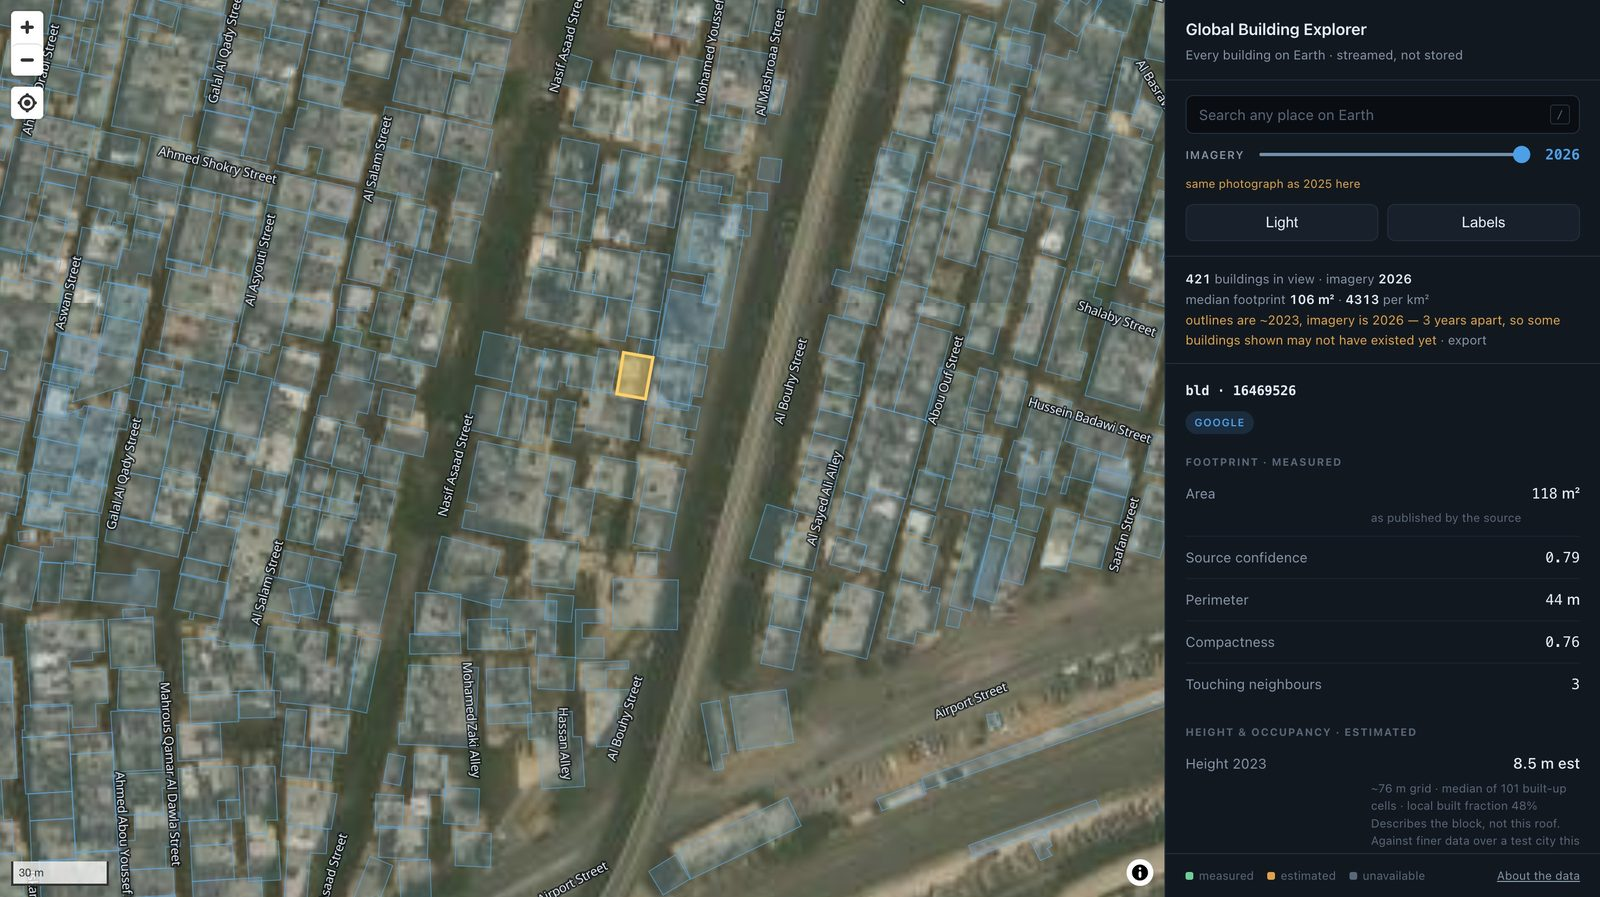
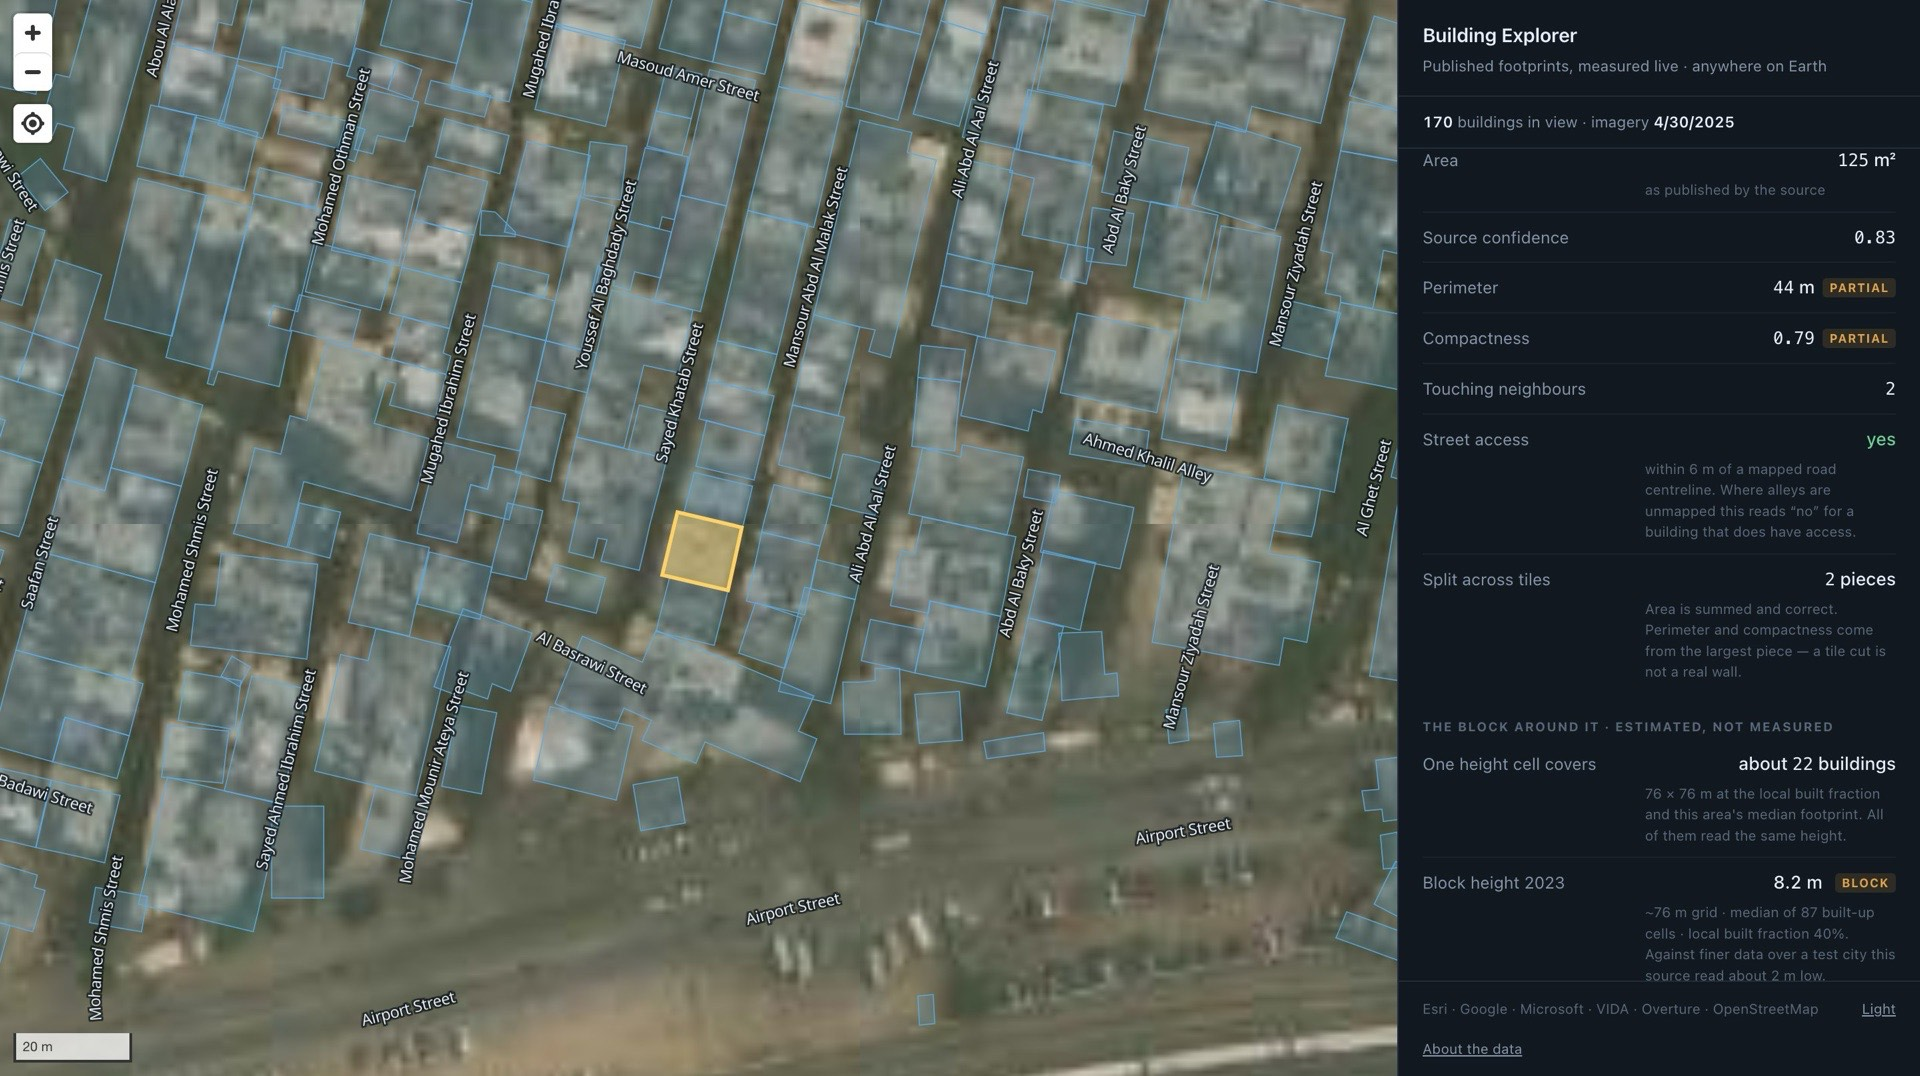
Release 1.1.0: the explanation for the slowest control had no way to open it
REPO PRESENTATION, VERSION AND THE LAST TWO THINGS THAT WERE NOT TRUE.

#sharphint HAD NO TRIGGER. The paragraph explaining "Sharpest here" ships with
`hidden`, and the only code that ever touched it set hidden = true again on each
run. There was no "?" anywhere pointing at it, so it had never been seen. Every
other section in that panel has one, and the control that lacked it is the one
that takes a minute and a half and whose whole premise is counter-intuitive —
that the newest release is not the best picture. It now has a "?" that lands at
exactly the same right edge as the confidence slider's, which is the established
pattern for a trigger at the end of a full-width row.

"ABOUT 20 SECONDS" WAS OPTIMISTIC BY FOUR TIMES. Re-measured end to end on one
connection: 70 s over Kibera, 98 s over Imbaba. Fourteen metadata calls against a
browser that opens six connections to one host is not a twenty-second job, and a
control that says 20 and takes 98 reads as hung. Both the hint and the comment
above findSharpest now carry the measured range instead.

VERSION AND CHANGELOG. 1.1.0, dated today. CHANGELOG.md records what 1.1.0 fixed
against 1.0.0 — chiefly that a UTM GeoTIFF was placed on the wrong continent
while the panel called it georeferenced.

PREVIEW RETAKEN. The screenshot in the README still showed the image workspace
before "Export for this ground" was folded into "Published data on this ground".
[…]

diff --git a/index.html b/index.html
@@ -434,14 +434,28 @@ td.v{text-align:right;font-variant-numeric:tabular-nums;font-weight:500}
         <output id="yrv">2026</output>
       </div>
       <div class="capnote" id="capnote"></div>
+      <!-- ⚠ THIS EXPLANATION WAS UNREACHABLE. #sharphint ships `hidden`, and the only
+           code that ever touched it set hidden = true again on each run — there was no
+           "?" anywhere pointing at it, so the paragraph below has never once been seen
+           by a user. Every other section in this panel has one; the control that takes
+           70–100 seconds and whose whole premise is counter-intuitive ("newest is not
+           best") was the one without. -->
       <div class="row">
         <button id="sharp">Sharpest here</button>
+        <button class="why-t" data-why="sharphint" aria-expanded="false" aria-label="Why">?</button>
       </div>
       <p class="segwhy" id="sharpnote"></p>
+      <!-- ⚠ "about 20 seconds" WAS OPTIMISTIC BY FOUR TIMES. Re-measured end to end on
+           one connection: 70 s over Kibera, 98 s over Imbaba. Fourteen metadata calls
+           against a browser that opens six connections to one host is simply not a
+           twenty-second job, and a control that says 20 and takes 98 reads as hung. The
+           button reports its own progress while it runs, so the honest thing is a range
+           and the reason it varies. -->
       <p class="why-b" id="sharphint" hidden>Searches Esri's archive for the best picture of
-        <em>this</em> ground — 14 of 196 releases, about 20 seconds. Newest is a publication
-        order, not a quality order: over Kibera the archive holds imagery 1.6× sharper and
-        twice as well placed as the one on screen.</p>
+        <em>this</em> ground — 14 of 196 releases. Measured at <b>70–100 seconds</b>,
+        depending on your connection; it counts the releases off as it goes. Newest is a
+        publication order, not a quality order: over Kibera the archive holds imagery
+        1.6× sharper and twice as well placed as the one on screen.</p>
       <input type="file" id="tif" hidden>
     </div>
 
@@ -1493,12 +1507,16 @@ async function findSharpest(){
   try{
     const all = await loadWayback();
     const c = map.getCenter();
-    /* A SPREAD, NOT THE WHOLE ARCHIVE. 196 releases at roughly a second each,
-       against a browser that opens six connections to one host, is half a
-       minute of waiting - measured, 30 s for 24 samples. Fourteen finds the
+    /* A SPREAD, NOT THE WHOLE ARCHIVE. 196 releases, against a browser that
+       opens six connections to one host, is many minutes of waiting — measured
+       end to end, fourteen of them already costs 70 s over Kibera and 98 s over
+       Imbaba, so the whole archive is out of the question. Fourteen finds the
        good frames (the archive changes slowly; neighbouring releases usually
-       carry the identical picture) and reports progress while it works, so the
-       wait is visible rather than a frozen button. */
+       carry the identical picture) and progress is reported while it works, so
+       the wait is visible rather than a frozen button.
+
+       The note here used to read "30 s for 24 samples", and the hint beside the
+       button promised twenty seconds. Neither survived being timed end to end. */
     const step = Math.max(1, Math.round(all.length/13));
     const pick = all.filter((_,i) => i % step === 0).slice(0, 14);
     if(pick.indexOf(all[0]) < 0) pick.unshift(all[0]);

diff --git a/README.md b/README.md
@@ -1,9 +1,21 @@
+<div align="center">
+
 # Global Building Explorer
 
 **Every building on Earth, on one map — with its measurements, its height, and its
-neighbours. One HTML file, 268 KB. No server, no database, no build step.**
+neighbours.**
 
-### ▶ [Open the explorer](https://ali-ezz.github.io/building-explorer/)
+One HTML file. No server, no database, no build step.
+
+[![Open the explorer](https://img.shields.io/badge/▶_Open_the_explorer-1f6fb2?style=for-the-badge)](https://ali-ezz.github.io/building-explorer/)
+
+[![Licence: MIT](https://img.shields.io/badge/licence-MIT-6fcf97)](LICENSE)
+[![Version](https://img.shields.io/badge/version-1.1.0-4d9fe8)](CHANGELOG.md)
+[![Single file](https://img.shields.io/badge/single_file-269_KB-8593a6)](index.html)
+[![No build step](https://img.shields.io/badge/build_step-none-8593a6)](#hosting-it-yourself)
+[![Built at NARSS](https://img.shields.io/badge/built_at-NARSS-e0a34a)](#where-this-came-from)
+
+</div>
 
 ![The explorer over Imbaba, Cairo — a building selected, its record open](preview.jpg)
 
@@ -12,7 +24,24 @@ and Overture contributors.</sub>
 
 ---
 
+## Try it in thirty seconds
+
+1. **[Open it](https://ali-ezz.github.io/building-explorer/)** — it lands over Imbaba, Cairo.
+2. **Click any building.** Its record opens: area, perimeter, compactness, how many
+   buildings physically touch it, whether it fronts a street.
+3. **Switch Buildings to "In selection", drag a rectangle.** You get the neighbourhood's
+   density, coverage and block complexity.
+4. **Press "Download all".** A ZIP lands with the two-colour mask, the instance mask, the
+   footprints as GeoJSON, the statistics as CSV, and world files so it opens in QGIS in
+   the right place.
+
+Nothing is uploaded and nothing is stored. Everything above is computed in your browser.
+
+---
+
 ## What it does
+
+### On the map
 
 **Click any building** and read its record: footprint area, perimeter, compactness,
 the **exact number of buildings physically touching it**, height in 2023 and 2020, an
@@ -22,15 +51,20 @@ estimate of storeys, and its share of the built volume around it.
 Where two years turn out to be the same photograph, the app says so rather than
 letting you wonder why nothing changed.
 
-**Go anywhere.** Search any place on Earth, or use the find-me button when you are
-standing in the area you are surveying.
+**Find the best picture, not the newest one.** The archive holds 196 releases and the
+newest is a publication order, not a quality order. "Sharpest here" searches it for
+*this* ground — over Kibera it finds imagery 1.6× sharper and twice as well placed as
+the one on screen.
 
-**Share a view.** The map position lives in the URL — copy the address bar and whoever
-opens it lands in exactly the same place, at the same zoom.
+**Go anywhere.** Search any place on Earth, or use the find-me button when you are
+standing in the area you are surveying. The map position lives in the URL, so a view can
+be sent to a colleague as a link.
 
 **Read it in English.** Street and place names appear in English wherever the data has
 one, and are romanised character by character where it does not, so Greek, Cyrillic,
 Arabic, Persian, Hebrew, Thai and Devanagari all render in Latin script.
+
+### As an instrument
 
 **Measure a neighbourhood.** Drag a rectangle and get its count, density, footprint
 distribution, how much ground is actually under a building, and **block complexity** —
@@ -43,17 +77,17 @@ separated by a one-pixel seam, a colour instance mask on the same grid, the foot
 as GeoJSON, every figure as CSV, and world files plus `.prj` so it lands correctly in
 QGIS. Rendered in EPSG:3857, to match the imagery it was traced from.
 
-**Find the best picture, not the newest one.** The archive holds 196 releases and the
-newest is a publication order, not a quality order. "Sharpest here" searches it for
-*this* ground — over Kibera it finds imagery 1.6× sharper and twice as well placed as
-the one on screen.
+### With your own data
 
-**Bring your own data.** A GeoTIFF lands at its own coordinates — WGS84, Web Mercator or
-any UTM zone, read from the file's own header and reprojected; a drone JPEG is placed
-from its EXIF GPS; a plain photograph you place and then snap to the imagery by
-correlation. GeoJSON, KML and CSV are scored building by building against the published
-data — which agree, which you have and they do not, which they have and you do not.
-Everything is read in your browser; there is no server here to upload a file to.
+**Bring your own imagery.** A GeoTIFF lands at its own coordinates — WGS84, Web Mercator
+or **any UTM zone**, read from the file's own header and reprojected. A drone JPEG is
+placed from its EXIF GPS. A plain photograph you place, then snap to the imagery by
+correlation. Everything the app knows about that ground comes back on *your* file's exact
+pixel grid, so the mask drops onto it one pixel to one pixel.
+
+**Bring your own polygons.** GeoJSON, KML and CSV (points or WKT) are scored building by
+building against the published data — which agree, which you have and they do not, which
+they have and you do not. Matched by centroid-inside-polygon, not by overlapping boxes.
 
 **Read the picture itself.** A public 15 MB segmentation model, run in the browser on
 your own image — the one place this app looks at pixels rather than re-serving what
@@ -68,7 +102,7 @@ Works on a phone, a tablet and a desktop, in a light or a dark theme.
 
 | | |
 |---|---|
-| **Measured** | footprint geometry, area, perimeter, compactness, touching neighbours, the source's own confidence |
+| **Measured** | footprint geometry, area, perimeter, compactness, touching neighbours, counts, density, coverage, block complexity, the source's own confidence |
 | **Estimated** | **height** — from a ~76 m grid, so it describes the block rather than the individual roof, and reads about 2 m low against finer data; **floors** — height ÷ 3.0 m, an estimate built on an estimate; **population share** — each building's share of the local built volume, to multiply by a total you trust, and **never a headcount** |
 
 Every estimated figure carries that caveat in the panel itself, next to the number.
@@ -82,10 +116,15 @@ polygons sitting on a building the other source had already drawn was 74% over I
 90% over Cairo and 71% over Lagos — which is why buildings appeared to carry several
 outlines stacked on them. Neither source can simply be dropped, because which one is
 better flips by place: 634 buildings against 208 over Imbaba, but 32 against 253 over
-Paris, and none at all over Beijing. The explorer picks the denser source for the
-current view and hides only the *overlapping* polygons of the other, so coverage still
-grows — Imbaba's 842 outlines resolve to 681 real buildings, 47 more than the best
-single source alone.
+Paris, and none at all over Beijing. The explorer draws the denser product for the
+current view, so no roof is outlined twice, and the other is one click away under
+**Sources** — where turning both on is an explicit choice to see where they disagree.
+
+**Position is bounded by the imagery, not by the outline.** Measured across 32 places:
+aerial-survey cities (Johannesburg, New York, Berlin) are accurate to 0.4–0.6 m, and
+satellite coverage — most of the world — to **8.47 m**. A footprint traced from a
+picture inherits that picture's accuracy however precise its outline looks. The panel
+says so, per area, next to the numbers it bounds.
 
 **Some imagery years are the same photograph.** Comparing tile bytes over Imbaba, 2014,
 2015 and 2016 are identical, and so are 2025 and 2026 — thirteen year options, ten real
@@ -107,10 +146,11 @@ warns you when the two drift apart.
 | Imagery | Esri World Imagery Wayback | Esri terms |
 | Roads, divisions | Overture Maps / OpenStreetMap | ODbL |
 | Place search | Nominatim / OpenStreetMap | ODbL |
+| Segmentation model | geobase, via geoai.js | MIT |
 
-The in-app **(i)** control and the "Data & licences" panel carry the same credits.
-Keep both in any copy you publish or redistribute. Full detail, with links and the
-software licences, is in **[ATTRIBUTION.md](ATTRIBUTION.md)**.
+The **About the data** panel in the app carries the same credits, and so does the README
+inside every export. Keep them in any copy you publish or redistribute. Full detail, with
+links and the software licences, is in **[ATTRIBUTION.md](ATTRIBUTION.md)**.
 
 **Requires an internet connection.** Nothing is bundled — every layer streams from its
 publisher at the moment you look at it. That is what keeps one file covering the whole
@@ -150,30 +190,28 @@ validation — is maintained separately and is not public.
 
 ---
 
-## Deploying an update
+## Working on it
 
-This repository holds only what is published: `index.html` and its licences.
-
-`index.html` was originally generated from the private project repository and pushed
-here as a subtree. **It is now also edited directly in this repository** — the recent
-history is commits against this file. That means the two copies can diverge, and a
-`git subtree push` from the private side would silently overwrite work done here.
-
-So, whichever way you are working, make it the one way:
+**This repository is the working copy.** `index.html` originated from a generator in the
+private project repository, but it is edited directly here now and the history is commits
+against this file.
 
 ```bash
-# editing here (what the recent history does)
 git add index.html && git commit -m "..." && git push origin main
-
-# regenerating from the private repository — pull this file back FIRST,
-# or the edits made here are lost
-python3 scripts/build_global_app.py data/deliverable/global_app.html
-cp data/deliverable/global_app.html site/index.html
-git add site && git commit -m "site: update"
-git push origin main && git subtree push --prefix site explorer main
 ```
 
 GitHub Pages rebuilds within a minute or two.
+
+> ⚠ **Do not `git subtree push` over this repository from the private side.** Work now
+> exists only here, and a subtree push would silently overwrite it. If the generator is
+> ever re-run, merge this file into it rather than over it.
+
+There is no build step and no test runner in this repository — it is one document. Open
+`index.html` from any static server and drive it:
+
+```bash
+python3 -m http.server 8765     # then open http://localhost:8765/index.html
+```
 
 ## Hosting it yourself
 

diff --git a/CHANGELOG.md b/CHANGELOG.md
@@ -1,0 +1,95 @@
+# Changelog
+
+All notable changes to the Global Building Explorer. Dates are release dates.
+
+The format follows [Keep a Changelog](https://keepachangelog.com/en/1.1.0/), and the
+project uses [Semantic Versioning](https://semver.org/spec/v2.0.0.html).
+
+---
+
+## [1.1.0] — 2026-08-12
+
+The theme of this release is that several things the app said about itself were not
+true, and were found by opening real files rather than by reading the code.
+
+### Added
+
+- **Any UTM zone is now read and reprojected.** A GeoTIFF's projection is taken from its
+  own `ProjectedCSTypeGeoKey` instead of being guessed, and EPSG:326xx / 327xx are
+  reprojected to WGS84 with a closed-form inverse transverse Mercator. Anything still
+  unidentified is refused *by EPSG name*, with the `gdalwarp` line needed to fix it.
+- **A corner-fit residual** is measured and reported when an image's extent is large
+  enough for the four-corner placement to matter — 1.5 mm on a drone survey, 985 m on a
+  237 km scene, stated rather than left to be discovered.
+- **RFC 4180 quoting** in the CSV reader, so WKT geometry columns parse.
+- **`raster_content` provenance** in the export CSV and README, naming whether the mask
+  holds published footprints or a model's reading, plus `model_buildings` and
+  `model_coverage_union` rows when it is the latter.
+
+### Fixed
+
+- **A UTM GeoTIFF was placed on the wrong continent.** The projection was inferred from
+  coordinate magnitude — "anything over 180 must be Web Mercator" — and UTM eastings and
+  northings are also over 180. A 3.3 cm/px survey of Desa Gumantar, Lombok landed in the
+  North Sea; a UTM 18N scene landed in the Algerian Sahara. Both were announced as
+  "Placed from its own georeferencing. Nothing was guessed."
+- **Every WKT CSV parsed to zero features**, silently, because rows were split on the
+  separator and WKT is full of quoted commas.
+- **The vector comparison depended on tile timing.** The same 249 buildings over the same
+  ground scored "75 published / 40 extra" or "499 / 268" depending on whether tiles had
+  arrived. It now waits for the map to settle and says so when it cannot.
+- **"imagery Null"** — Esri returns the literal string `Null`, which is truthy, so it was
+  printed as if it were a capture date.
+- **A model export was georeferenced as plate carrée** when its source image was Web
+  Mercator, and mixed the model's coverage into published-footprint statistics.
+- **A measurement outlived its image** — measuring an upload's footprint left a phantom
+  selection that survived removal, freezing clicks and misreporting the status line.
+- **The file table promised two controls that did not exist**: "Check the footprints" for
+  every raster, and an export for vectors.
+- An EXIF-placed photo was labelled "from its own georeferencing"; a points CSV was
+  titled "3 of your polygons" above "Your polygons 0"; the height table's own caveat was
+  pushed below two later notes; the population row directed users to an input that had
+  been removed; `fitBounds` was passed a `minZoom` it does not accept.
+- **"Sharpest here" claimed about 20 seconds** and measures 70–100 s. The claim now
+  matches the measurement.
+
+### Changed
+
+- **The image workspace is organised by subject, not by verb.** "Export for this ground"
+  was a separate top-level section mirroring the map panel's Export directly underneath
+  it. Showing outlines, measuring and downloading are three things done to one subject —
+  the published data under your picture — so they are one section.
+- Attribution now credits **ONNX Runtime Web** and the **geobase** model weights, both
+  fetched at runtime.
+- The README documents the features added since 1.0.0, and states that this repository is
+  the working copy rather than a read-only subtree export.
+
+### Removed
+
+- ~240 lines of unreachable code: `scanFill`, `overtureSplit`, `exportVisible`,
+  `featureName`, `removeAllFiles`, `ctxIsBuildings`, and the `LAYERS` / `buildLayerUI`
+  apparatus pointing at a `#lyrlist` element that no longer existed in the markup, with
+  the CSS that styled it.
+
+---
+
+## [1.0.0] — 2026-07-27
+
+First public release.
+
+- Building records: area, perimeter, compactness, exact touching-neighbour count, street
+  access, source confidence, and block height from a ~76 m grid with its caveat attached.
+- Area measurement: density, footprint distribution, coverage from the union of
+  rasterised footprints, and block complexity (Nature, 2025).
+- Export: two-colour mask with a one-pixel instance seam, colour instance mask, GeoJSON,
+  statistics CSV and world files, as one ZIP, in EPSG:3857.
+- Esri Wayback imagery 2014–2026, with same-photograph detection per tile, and "Sharpest
+  here" to search 196 releases for the best frame over the current ground.
+- One product drawn at a time, chosen by density per view, so no roof is outlined twice.
+- Upload GeoTIFF, JPEG (EXIF GPS), PNG, GeoJSON, KML or CSV; run a public segmentation
+  model in the browser against your own picture.
+- English and romanised labels for Greek, Cyrillic, Arabic, Persian, Hebrew, Thai and
+  Devanagari.
+
+[1.1.0]: https://github.com/ali-ezz/building-explorer/releases/tag/v1.1.0
+[1.0.0]: https://github.com/ali-ezz/building-explorer/releases/tag/v1.0.0
